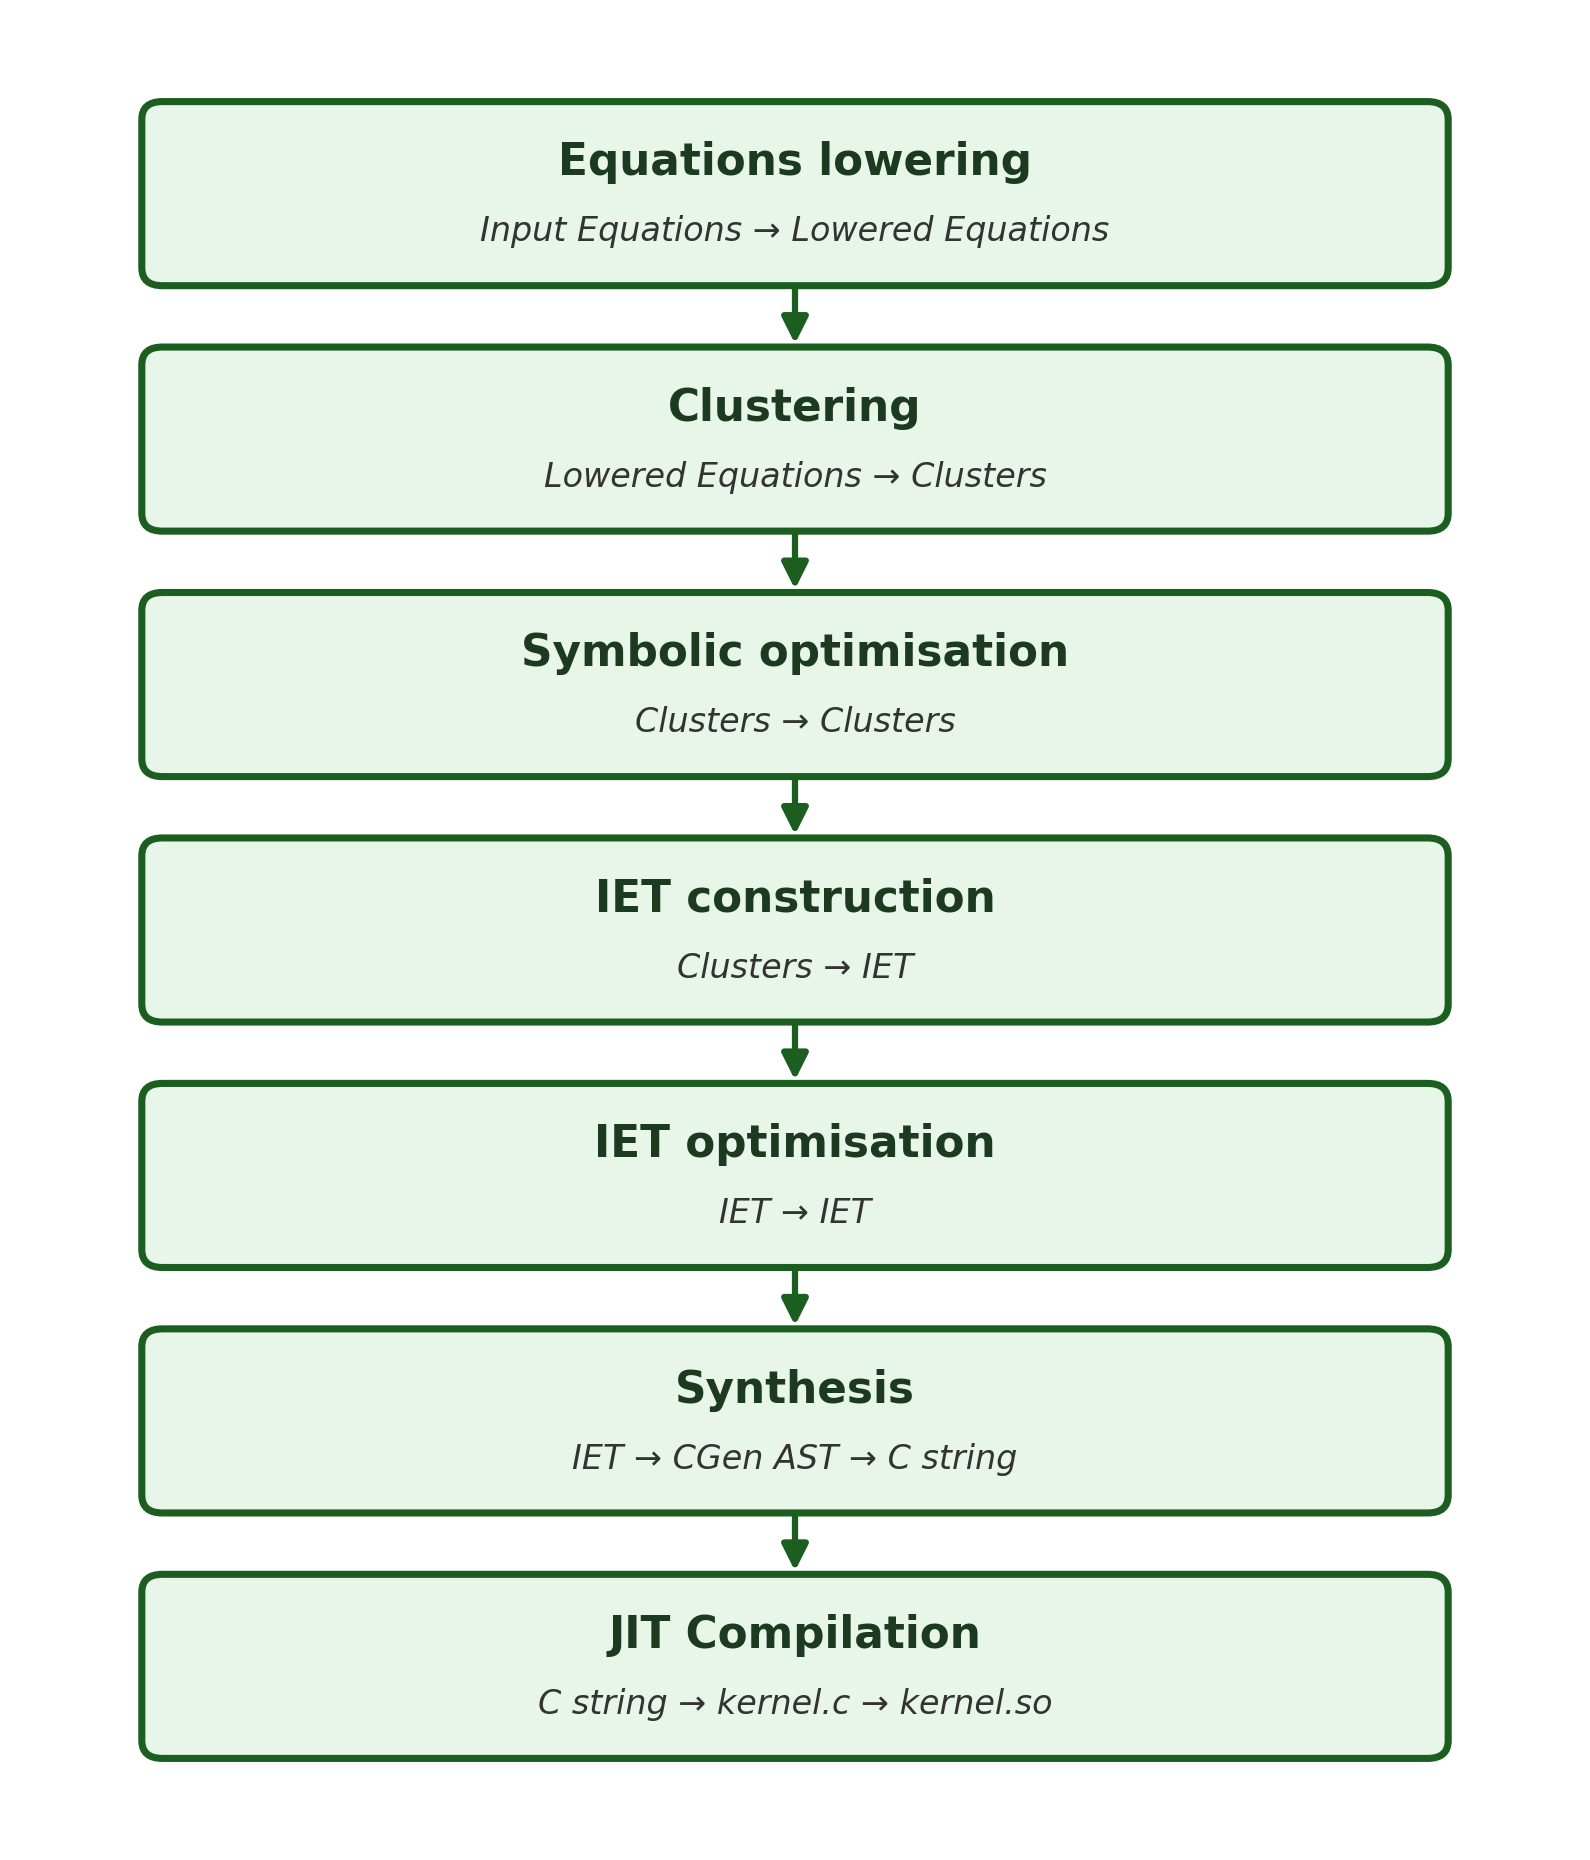
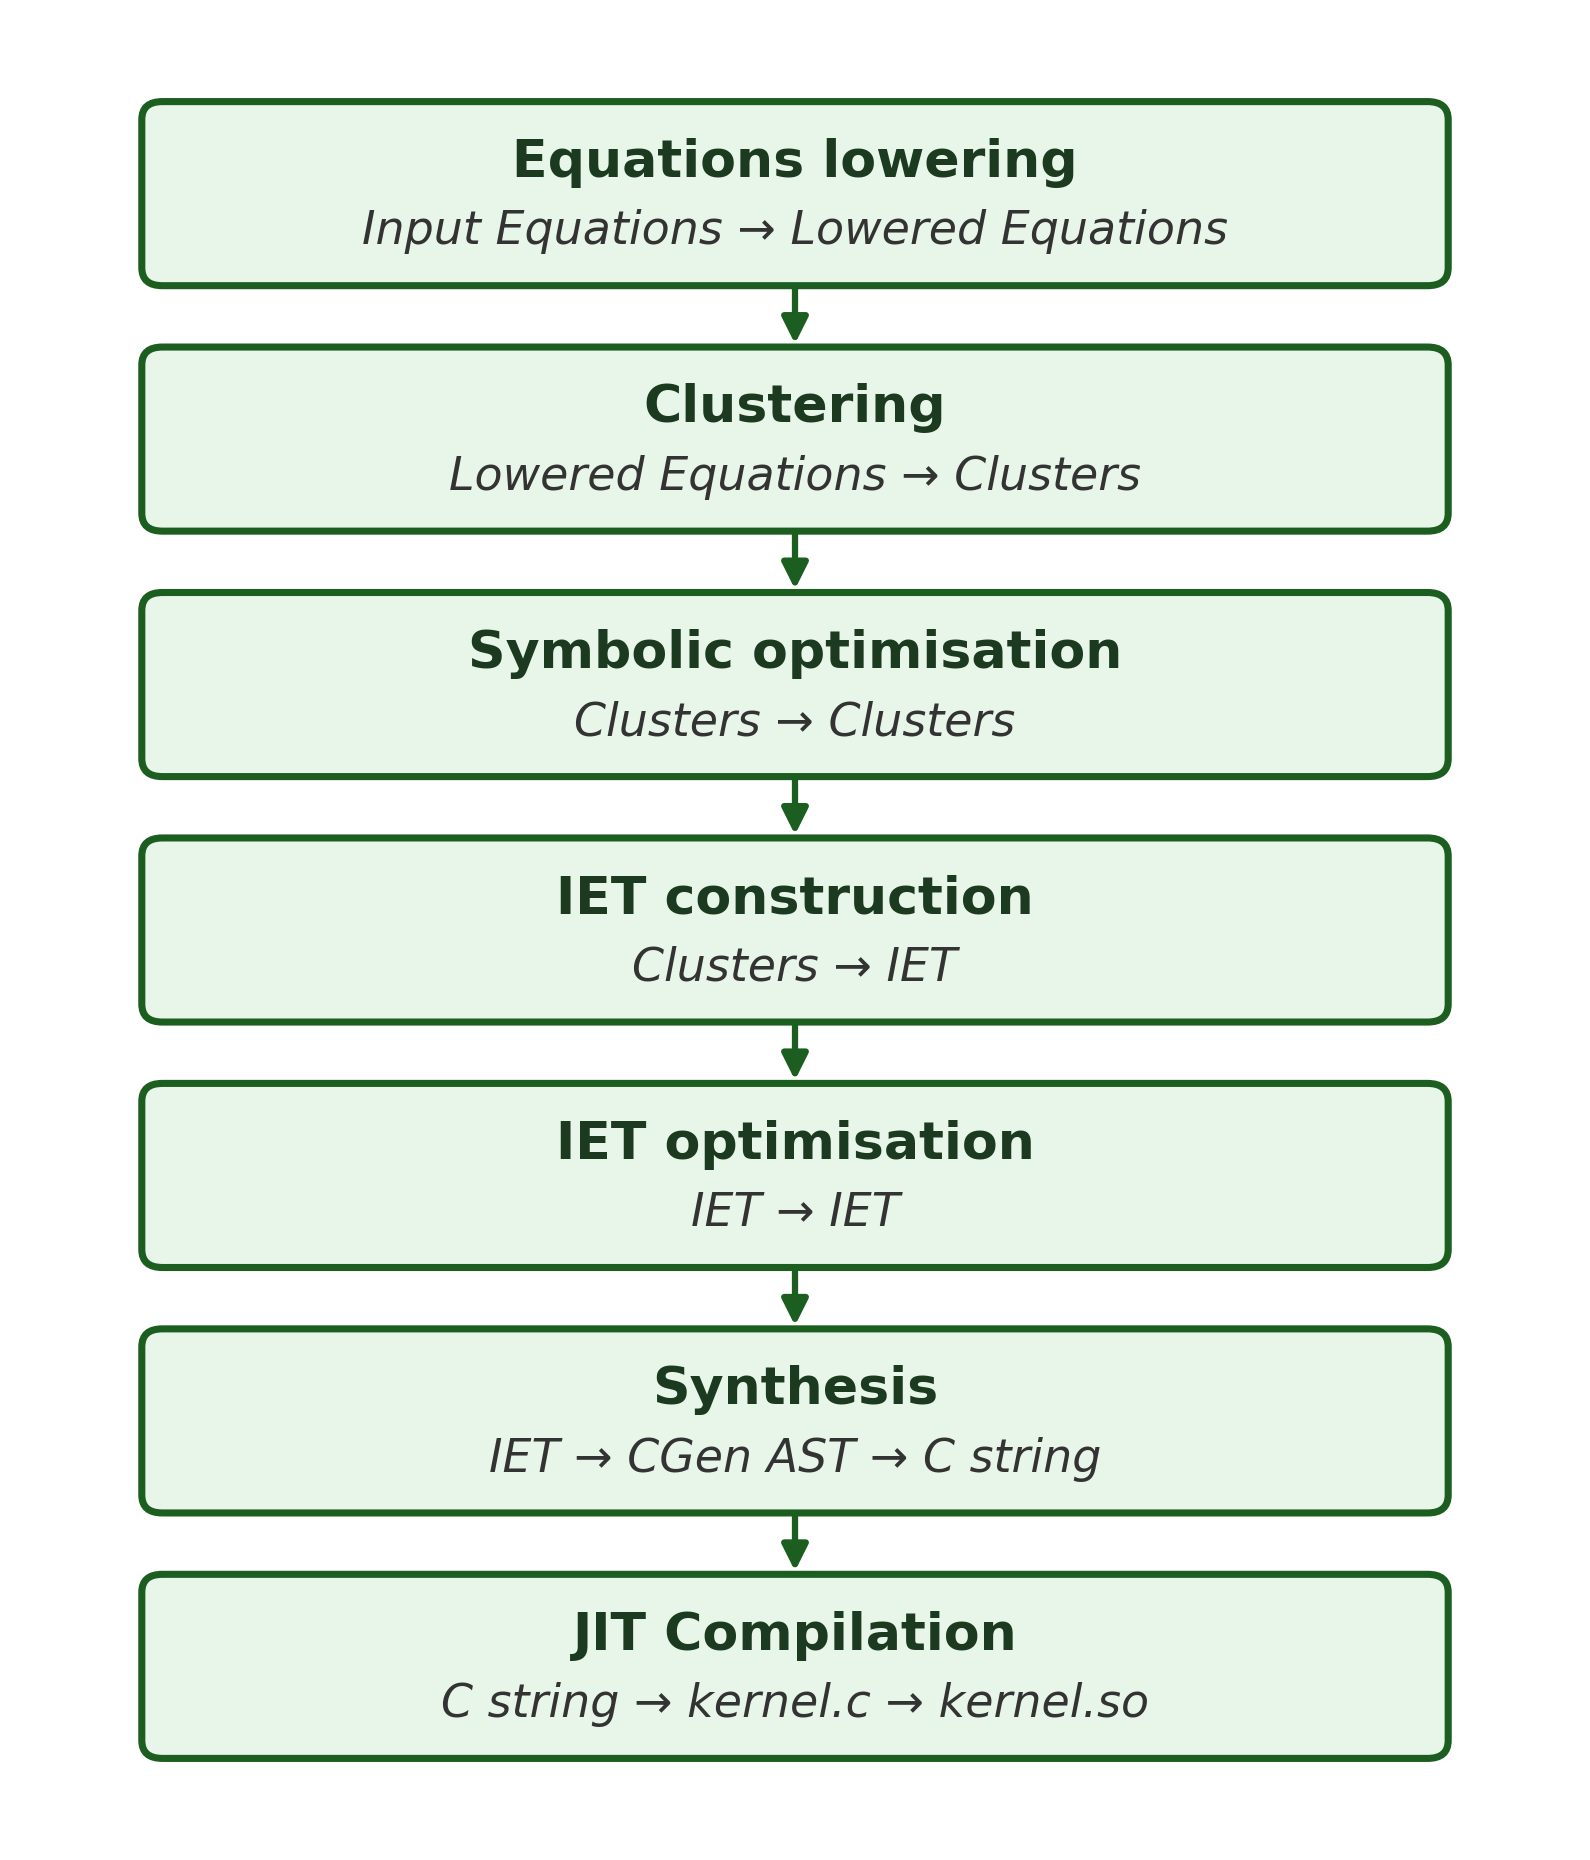
change font size

diff --git a/Chapter2/figures/devito_compiler.py b/Chapter2/figures/devito_compiler.py
@@ -53,16 +53,16 @@ def draw_card(y_bottom, title, subtitle, highlighted):
     if subtitle:
         ax.text(
             card_cx, cy + 0.12, title, ha="center", va="center",
-            fontsize=10.5, fontweight="bold", color=TEXT_DARK, zorder=4,
+            fontsize=12.5, fontweight="bold", color=TEXT_DARK, zorder=4,
         )
         ax.text(
             card_cx, cy - 0.15, subtitle, ha="center", va="center",
-            fontsize=8, style="italic", color="#333333", zorder=4,
+            fontsize=11, style="italic", color="#333333", zorder=4,
         )
     else:
         ax.text(
             card_cx, cy, title, ha="center", va="center",
-            fontsize=10.5, fontweight="bold", color=TEXT_DARK, zorder=4,
+            fontsize=12.5, fontweight="bold", color=TEXT_DARK, zorder=4,
         )
 
 
